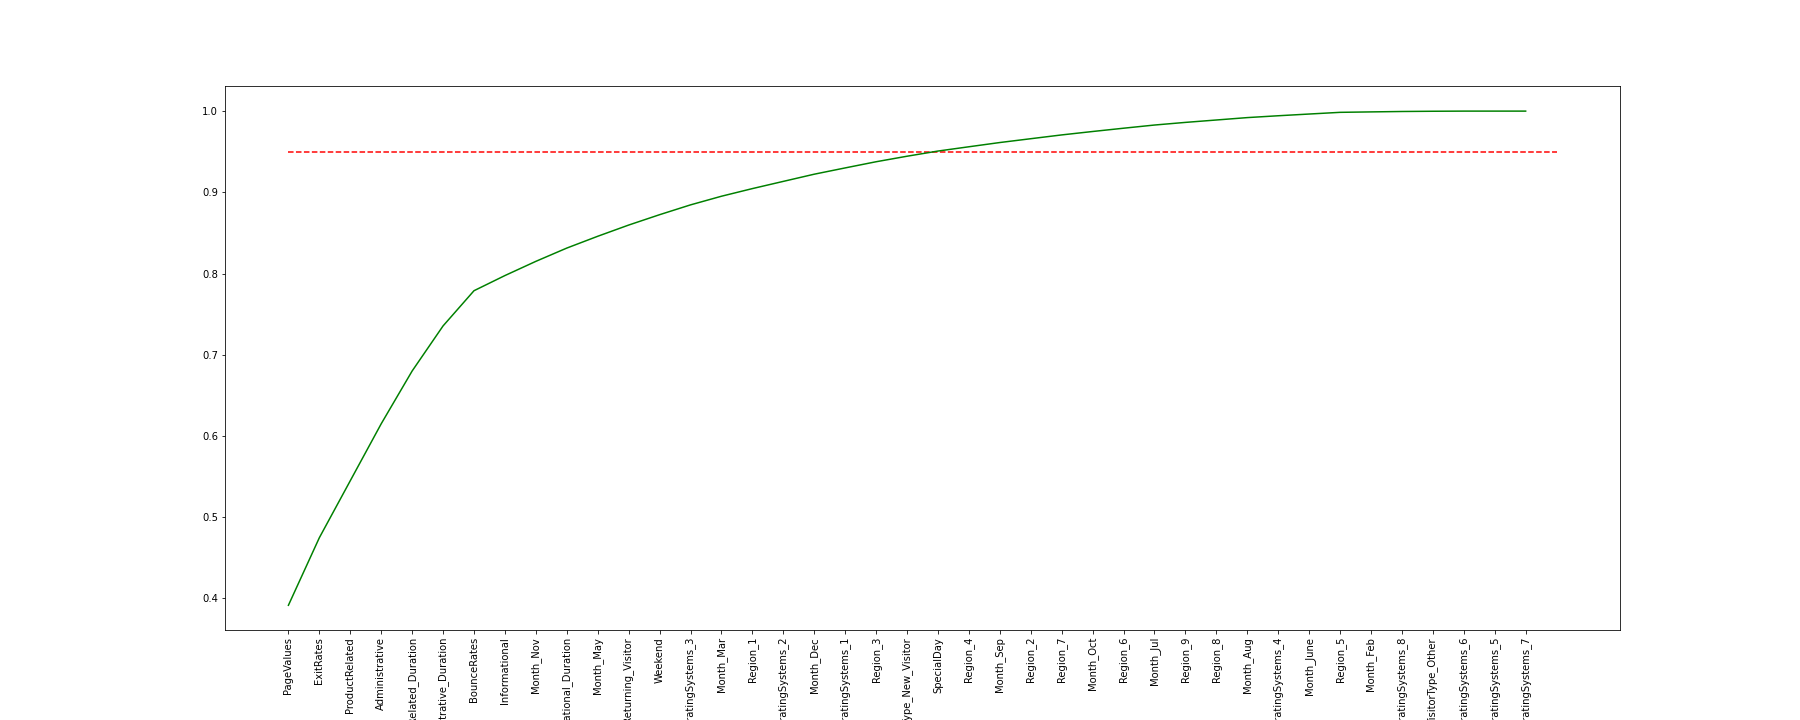
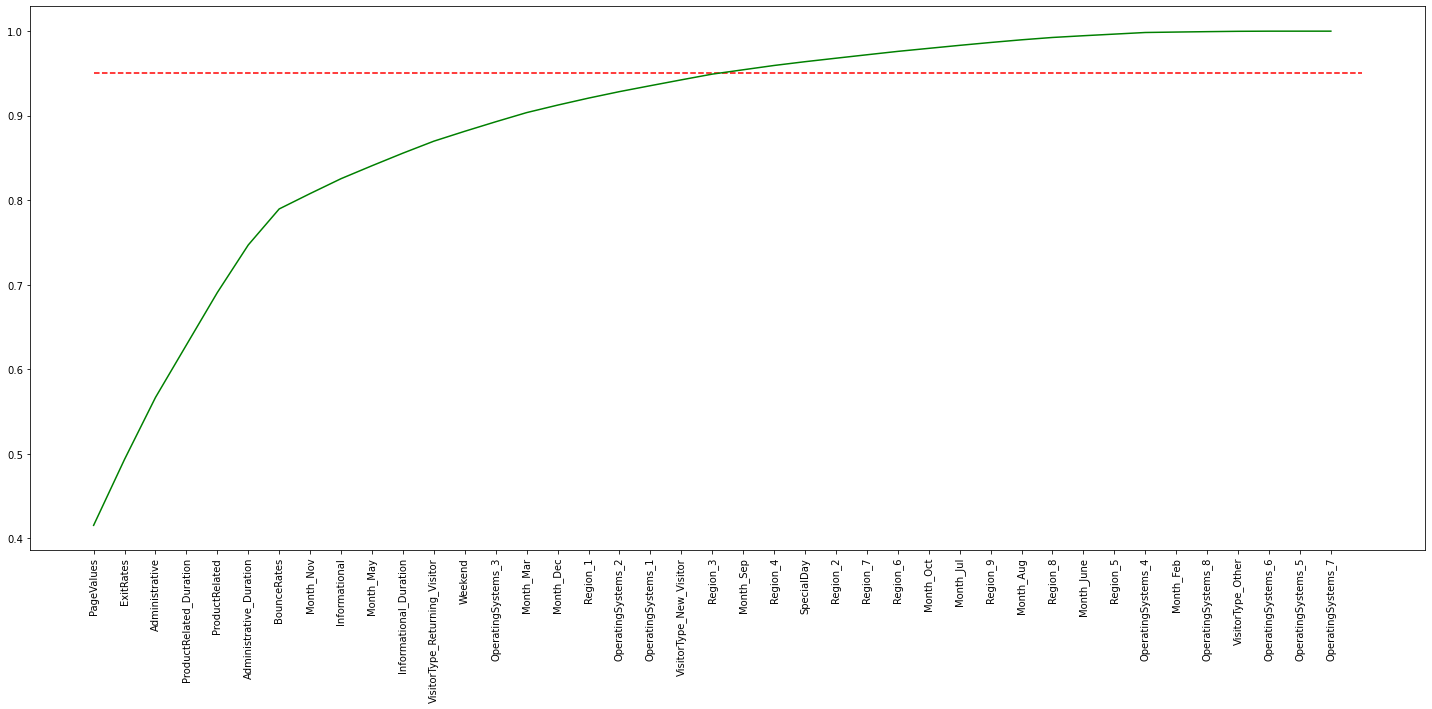
Updated Read me

diff --git a/README.md b/README.md
@@ -1,2 +1,52 @@
 # Capstone Online Shopper Intention
- A classification problem for analysing shopper's intension based on their website activities
+
+##Introduction
+*E-commerce is a booming industry with lots of potential for applying Data Science. Websites have their customer activity data that can be used to improve customer performance. There are various applications such as creating a Recommendation System, Inventory management and Warranty Management etc.*
+
+##Problem Statement:
+The boom of internet has given e-commerce websites accessibility to a large audience. In fact, an increase in website visitors can be observed. But, this increase in e-commerce usage over the past few years has created potential in the market but the conversion rate is not as high. Aim is to investigate the conversion rates, and understand what is happening.
+
+##Data: 
+Data was collected from Kaggle, linked it [here](https://www.kaggle.com/roshansharma/online-shoppers-intention).
+The dataset consists of feature vectors belonging to 12,330 sessions. Each session belongs to a different user in a 1-year period to avoid any tendency to a specific campaign, special day, user profile, or period.
+
+##Data Wrangling:
+1.	**Identifying categorical and continuous variables.**
+2.	**Handling NaN values:** Session details of customers were essentially missing. In such a case all the columns corresponding to these sessions were NaN values, hence these session details were dropped.
+3.	**Dealing with duplicate data:** There were almost 117 rows that were duplicated and hence were dropped.
+4.	**Outlier Detection:** On further analysis, we can observe that ‘ProductRelated_Duration’ column has outliers. Hence, used tukey's method on the column to remove outliers.
+
+##Exploratory Data Analysis:
+![Pie Chart](https://github.com/SanjaPanda/Online-Shopper-Intention-Capstone/blob/master/figure/pie.png)
+In the model, Revenue is the target variable. In the pie chart, it can be observed that data is highly imbalanced.
+
+<Special Day vs Revenue>
+There is hardly any shopping on or the day's approaching any special day
+<Month>
+May, November, March and December have peak. There are 2 opportunity windows, March - May and November - December
+
+<Weekend vs Revenue>
+Even if on surface it looks like there is more sale during Weekdays, but during Weekends customers seem to buy more wrt visiting the site.
+
+<No. of pages and Duration>
+From the above plots we can see that, the time spent by visitors’ pages are related to number of pages. Eg. in above figure a visitor’s duration on ProductRelated pages increases as number of pages do. It seems like Visitors who don't convert stay ideal and don't interact with the website. 
+
+<Correlation>
+Exit Rate and Bounce Rate are highly corelated.
+
+##Algorithms and Machine Learning
+This can be treated as a classification problem, with target variable as ‘Revenue’.
+In this case our governing metric would be ‘F1 Score’ of minority class.
+As the target variable is skewed. Tried using 3 methods to deal with the imbalance:
+a.	Class Weight: One of the simplest ways to address the class imbalance is to simply provide a weight for each class which h places more emphasis on the minority classes such that the end result is a classifier which can learn equally from all classes.
+b.	Under Sampling – Near miss: The general idea behind near miss is to only the sample the points from the majority class necessary to distinguish between other classes.
+c.	Over Sampling – SMOTE:  Synthetic Minority Over-sampling Technique (SMOTE) is a technique that generates new observations by interpolating between observations in the original dataset.
+
+##Classification Algorithms used were: Logistic Regression, Decision Tree, Random Forest, XG Boost and Random Forest. 
+There were 2 models that performed well, Class Weight in SVM and Random Forest with SMOTE and Feature selection. 
+After hyper parameter tuning of the Random forest gave the highest F1 score of 71.
+<cumulative importance>
+
+##Future Improvement
+A added feature could be to add Customer detail and Customer segmentation, to analyse more about the customer demography.
+
